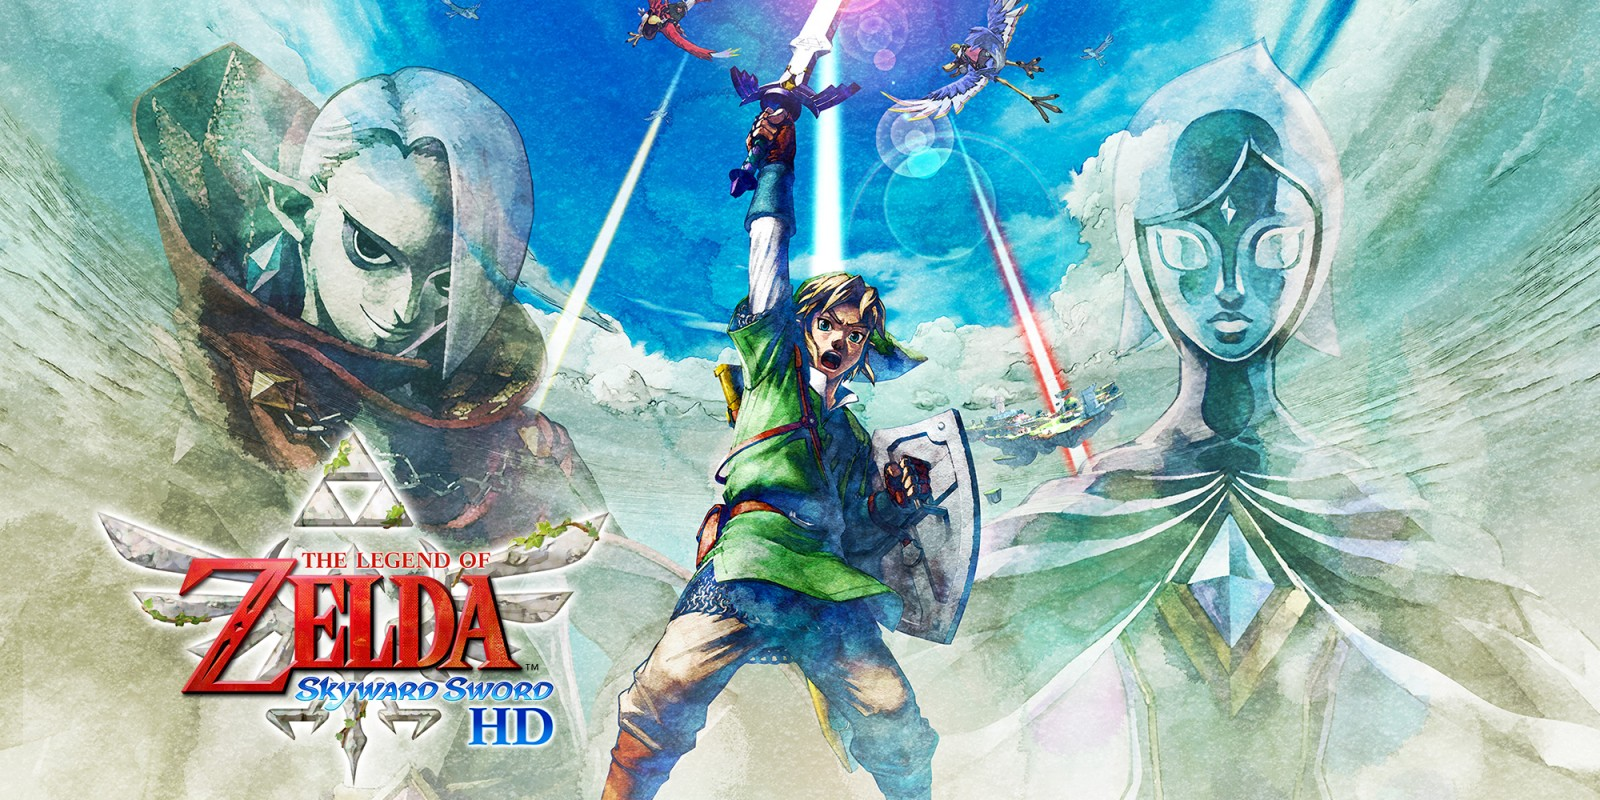
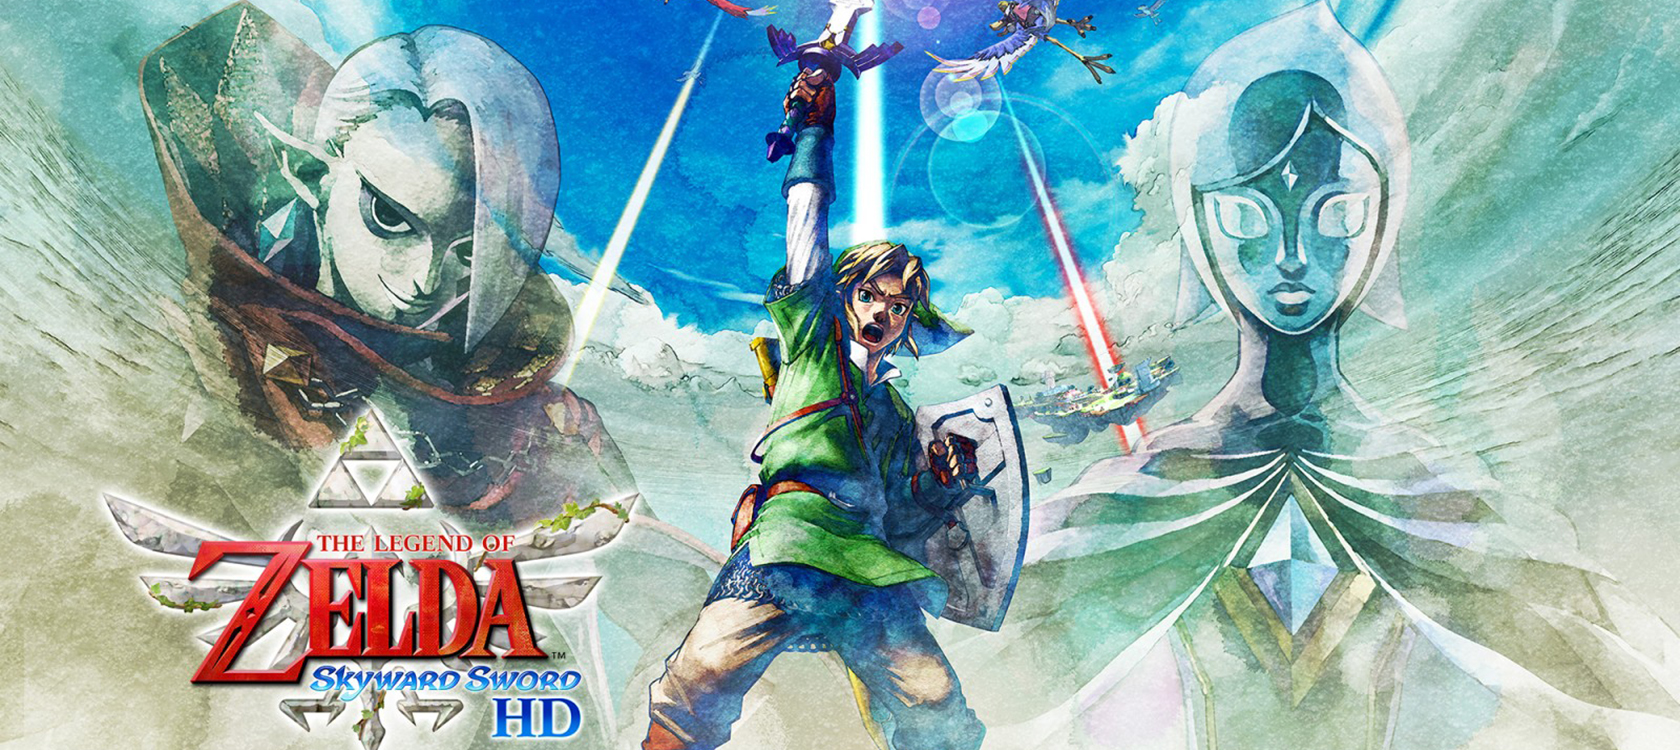
responsive slider

diff --git a/style/style.css b/style/style.css
@@ -41,7 +41,7 @@
 
 .mySlides img {
   width: 100%;
-  height: 75%;
+  height: 30%;
   object-fit: cover;
 }
 
@@ -512,7 +512,11 @@ background-clip: border-box;
   .text {
     font-size: 7.5px;
   }
-
+  .mySlides img {
+    width: 100%;
+    height:10%;
+    object-fit: cover;
+  }
   
   
 }
@@ -530,5 +534,10 @@ background-clip: border-box;
 
   .hits .main_content .card .card_img img {
     width: 250px;
+  }
+  .mySlides img {
+    width: 100%;
+    height: 20%;
+    object-fit: cover;
   }
 }
